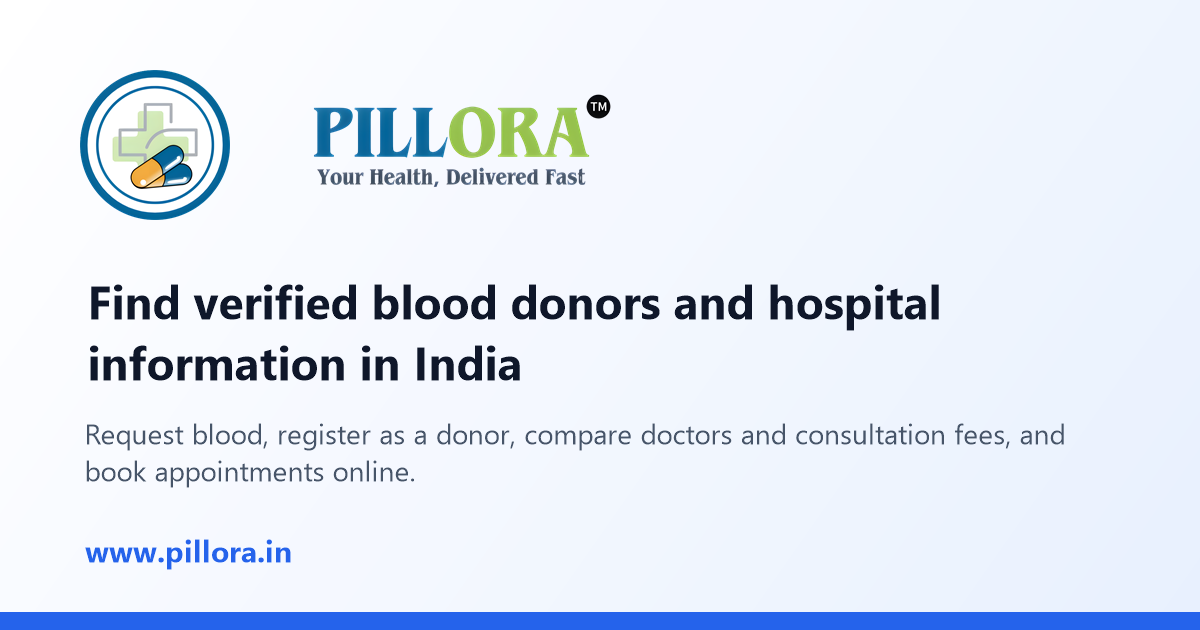
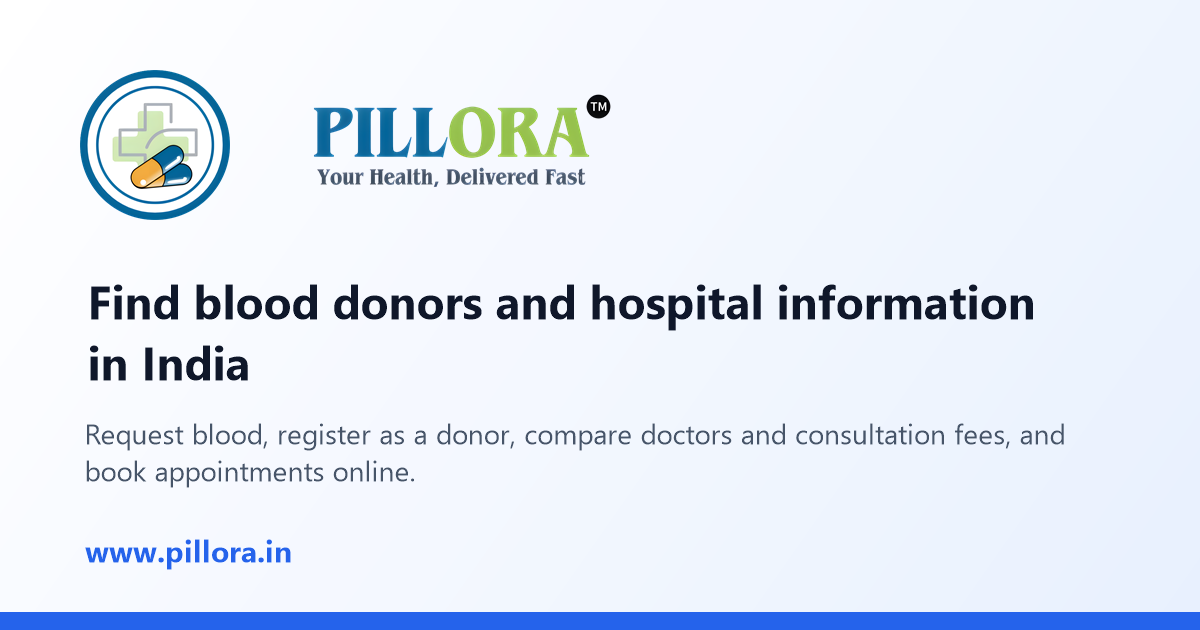
seo: neutral donor wording, homepage and hospitals sections, cross-links
- Pillora has no donor verification step, so 'verified donors' becomes
  'registered donors' in the homepage title/description, root metadata,
  Organization JSON-LD and the share image.
- Homepage: server-rendered 'What you can do on Pillora' links (Blood
  Connect, donors by city, hospitals, Health Hub) and a descriptive link
  to pillorahospital.in.
- /hospitals: server-rendered explainer with 3 FAQs (FAQPage JSON-LD),
  links to Blood Connect and to Pillora for Hospitals.
- Footer: 'Blood donors by city' and 'Appointment software for
  hospitals & clinics' (pillorahospital.in).

Changed region(s): [[0.1542, 0.4524, 0.8633, 0.5127], [0.0925, 0.5429, 0.4317, 0.6032]]

diff --git a/src/app/page.tsx b/src/app/page.tsx
@@ -1,14 +1,75 @@
 import type { Metadata } from "next";
+import Link from "next/link";
+import { ArrowRight, Building2, Droplet, MapPin, BookOpen } from "lucide-react";
 import HomeClient from "./HomeClient";
 import { pageMetadata } from "@/lib/seo";
 
 export const metadata: Metadata = pageMetadata({
-    title: "Find Verified Blood Donors in India | Pillora",
+    title: "Find Blood Donors Near You in India | Pillora",
     description:
-        "Request blood, find verified donors near you, and check hospital information, doctor fees and government health schemes in India on Pillora.",
+        "Request blood, find registered donors near you, and check hospital information, doctor fees and government health schemes in India on Pillora.",
     path: "/",
 });
 
+// Verified capabilities only; no claims from src/content/claims.ts.
+const SECTIONS = [
+    {
+        href: "/blood-bank",
+        icon: <Droplet className="w-6 h-6 text-red-500" aria-hidden="true" />,
+        title: "Request blood or become a donor",
+        text: "Submit a blood request and we match you with registered donors of the same blood group in your area, or register to donate.",
+        cta: "Go to Blood Connect",
+    },
+    {
+        href: "/blood-donors",
+        icon: <MapPin className="w-6 h-6 text-red-500" aria-hidden="true" />,
+        title: "Blood donors by city",
+        text: "See how many registered voluntary donors Pillora has in your city.",
+        cta: "See blood donors by city",
+    },
+    {
+        href: "/hospitals",
+        icon: <Building2 className="w-6 h-6 text-blue-500" aria-hidden="true" />,
+        title: "Hospitals, doctors and fees",
+        text: "Compare hospitals, see doctors and consultation fees, check accepted government schemes such as PM-JAY, and book appointments.",
+        cta: "Find hospitals and doctors",
+    },
+    {
+        href: "/health-hub",
+        icon: <BookOpen className="w-6 h-6 text-emerald-500" aria-hidden="true" />,
+        title: "Health Hub",
+        text: "Plain-language articles on preventive care, nutrition and blood donation.",
+        cta: "Read health articles",
+    },
+];
+
 export default function Home() {
-    return <HomeClient />;
+    return (
+        <HomeClient>
+            <section className="max-w-7xl mx-auto px-6 pb-16" aria-labelledby="home-services-heading">
+                <h2 id="home-services-heading" className="text-2xl md:text-3xl font-bold text-gray-900">What you can do on Pillora</h2>
+                <ul className="grid grid-cols-1 sm:grid-cols-2 lg:grid-cols-4 gap-6 mt-8">
+                    {SECTIONS.map((s) => (
+                        <li key={s.href}>
+                            <Link href={s.href} className="flex flex-col h-full bg-white rounded-2xl border border-gray-100 shadow-sm p-6 hover:shadow-lg hover:-translate-y-0.5 transition-all">
+                                <span className="w-12 h-12 rounded-full bg-gray-50 flex items-center justify-center">{s.icon}</span>
+                                <span className="font-bold text-gray-900 mt-4">{s.title}</span>
+                                <span className="text-sm text-gray-500 mt-2 flex-1">{s.text}</span>
+                                <span className="text-sm font-semibold text-blue-600 mt-4 inline-flex items-center gap-1">
+                                    {s.cta} <ArrowRight className="w-4 h-4" aria-hidden="true" />
+                                </span>
+                            </Link>
+                        </li>
+                    ))}
+                </ul>
+                <p className="text-sm text-gray-500 mt-8">
+                    Run a hospital or clinic?{" "}
+                    <a href="https://www.pillorahospital.in" className="font-semibold text-blue-600 hover:underline">
+                        See Pillora&apos;s appointment and doctor schedule software for hospitals
+                    </a>
+                    .
+                </p>
+            </section>
+        </HomeClient>
+    );
 }

diff --git a/src/app/hospitals/page.tsx b/src/app/hospitals/page.tsx
@@ -1,17 +1,64 @@
+import Link from "next/link";
 import HospitalsPage, { type Hospital } from "./HospitalsClient";
 import { serverGet } from "@/lib/serverApi";
-import { JsonLd, breadcrumbJsonLd } from "@/lib/structuredData";
+import { JsonLd, breadcrumbJsonLd, faqJsonLd } from "@/lib/structuredData";
 
 // Server wrapper: the hospital cards (names, cities, fees, links to detail pages)
 // are in the initial HTML so they can be crawled. Metadata lives in layout.tsx.
 export const revalidate = 600;
 
+// Verified capabilities only (hospital listing, doctors, fees, schemes filter,
+// online booking with advance payment). No claims from src/content/claims.ts.
+const HOSPITAL_FAQS = [
+    {
+        question: "What information does a hospital page on Pillora show?",
+        answer: "Each hospital page lists the hospital's doctors with their specialisation and consultation fee, the hospital's address and timings, and whether online booking and online payment are available.",
+    },
+    {
+        question: "Can I find hospitals that accept Ayushman Bharat PM-JAY?",
+        answer: "Yes. Use the PM-JAY and government scheme filters on this page to see hospitals that have listed those schemes as accepted. Confirm your eligibility and coverage with the hospital before treatment.",
+    },
+    {
+        question: "How do I book an appointment?",
+        answer: "Open a hospital, choose a doctor, pick a date and an open slot, and confirm. Some hospitals ask for part of the consultation fee online in advance; the rest is paid at the hospital.",
+    },
+];
+
 export default async function HospitalsIndexPage() {
     const hospitals = await serverGet<Hospital[]>("/hospitals", { revalidate });
     return (
         <>
-            <JsonLd data={breadcrumbJsonLd([{ name: "Home", path: "/" }, { name: "Hospitals", path: "/hospitals" }])} />
+            <JsonLd
+                data={[
+                    breadcrumbJsonLd([{ name: "Home", path: "/" }, { name: "Hospitals", path: "/hospitals" }]),
+                    faqJsonLd(HOSPITAL_FAQS),
+                ]}
+            />
             <HospitalsPage initialHospitals={Array.isArray(hospitals) ? hospitals : null} />
+
+            <section className="max-w-7xl mx-auto px-4 sm:px-6 py-14 border-t border-gray-100" aria-labelledby="hospital-info-heading">
+                <h2 id="hospital-info-heading" className="text-2xl md:text-3xl font-black text-slate-900">About hospital information on Pillora</h2>
+                <p className="text-slate-600 mt-3 max-w-3xl leading-relaxed">
+                    Hospitals and clinics on Pillora publish their doctors, consultation fees, timings and accepted government schemes, so you can compare
+                    before you visit. Fees and scheme details are provided by each hospital; confirm them with the hospital before treatment.
+                </p>
+                <div className="grid grid-cols-1 md:grid-cols-3 gap-6 mt-8">
+                    {HOSPITAL_FAQS.map((f) => (
+                        <div key={f.question} className="bg-white rounded-2xl border border-gray-100 p-6">
+                            <h3 className="font-bold text-slate-900">{f.question}</h3>
+                            <p className="text-sm text-slate-600 mt-2 leading-relaxed">{f.answer}</p>
+                        </div>
+                    ))}
+                </div>
+                <p className="text-sm text-slate-500 mt-8">
+                    Need blood for a patient? Use <Link href="/blood-bank" className="font-semibold text-blue-600 hover:underline">Blood Connect</Link> to
+                    reach registered donors. Run a hospital or clinic?{" "}
+                    <a href="https://www.pillorahospital.in" className="font-semibold text-blue-600 hover:underline">
+                        List your doctors and take online appointments with Pillora for Hospitals
+                    </a>
+                    .
+                </p>
+            </section>
         </>
     );
 }

diff --git a/src/components/Footer.tsx b/src/components/Footer.tsx
@@ -48,6 +48,7 @@ export default function Footer() {
                             <li><Link href="/careers" className="hover:text-blue-600 transition-colors">Careers</Link></li>
                             <li><Link href="/blog" className="hover:text-blue-600 transition-colors">Blog</Link></li>
                             <li><Link href="/partners" className="hover:text-blue-600 transition-colors">Partner with us</Link></li>
+                            <li><a href="https://www.pillorahospital.in" className="hover:text-blue-600 transition-colors">Appointment software for hospitals &amp; clinics</a></li>
                         </ul>
                     </div>
 
@@ -57,6 +58,7 @@ export default function Footer() {
                         <ul className="space-y-3 text-sm text-gray-500">
                             <li><Link href="/blood-bank" className="hover:text-blue-600 transition-colors">Blood Connect</Link></li>
                             <li><Link href="/hospitals" className="hover:text-blue-600 transition-colors">Hospitals</Link></li>
+                            <li><Link href="/blood-donors" className="hover:text-blue-600 transition-colors">Blood donors by city</Link></li>
                         </ul>
                     </div>
 

diff --git a/src/app/layout.tsx b/src/app/layout.tsx
@@ -24,10 +24,10 @@ export const metadata: Metadata = {
     // purpose — a canonical set in the root layout is inherited by every page
     // and pointed them all at the homepage. Each page sets its own instead.
     title: {
-        default: "Find Verified Blood Donors in India | Pillora",
+        default: "Find Blood Donors Near You in India | Pillora",
         template: "%s | Pillora"
     },
-    description: "Request blood, find verified donors near you, and check hospital information, doctor fees and government health schemes in India on Pillora.",
+    description: "Request blood, find registered donors near you, and check hospital information, doctor fees and government health schemes in India on Pillora.",
     openGraph: {
         siteName: SITE.name,
         locale: SITE.locale,

diff --git a/src/app/HomeClient.tsx b/src/app/HomeClient.tsx
@@ -13,7 +13,7 @@ interface FeatureItemProps {
     desc: string;
 }
 
-export default function Home() {
+export default function Home({ children }: { children?: React.ReactNode }) {
     const router = useRouter();
 
     // Removed automatic redirect to dashboard for logged-in users
@@ -39,6 +39,9 @@ export default function Home() {
                     <FeatureItem icon={<Landmark className="w-6 h-6 text-orange-500" />} title="Govt. Scheme Eligible" desc="Ayushman Bharat & more covered" />
                 </div>
             </section>
+
+            {/* Server-rendered section passed from page.tsx (crawlable links and copy) */}
+            {children}
 
             {/* 3. Health Hub (also covers the daily tips, so they are not repeated) */}
             <HealthHubSection />

diff --git a/src/lib/structuredData.tsx b/src/lib/structuredData.tsx
@@ -23,7 +23,7 @@ export const organizationJsonLd = () => ({
     url: SITE.url,
     logo: absoluteUrl(SITE.logo),
     description:
-        'Pillora is a healthcare technology platform in India that helps patients and families find verified blood donors, request blood, and look up hospital information, doctor availability, consultation fees and government health schemes.',
+        'Pillora is a healthcare technology platform in India that helps patients and families find registered blood donors, request blood, and look up hospital information, doctor availability, consultation fees and government health schemes.',
     sameAs: [...SITE.sameAs, SITE.hospitalSiteUrl],
     contactPoint: [
         {
